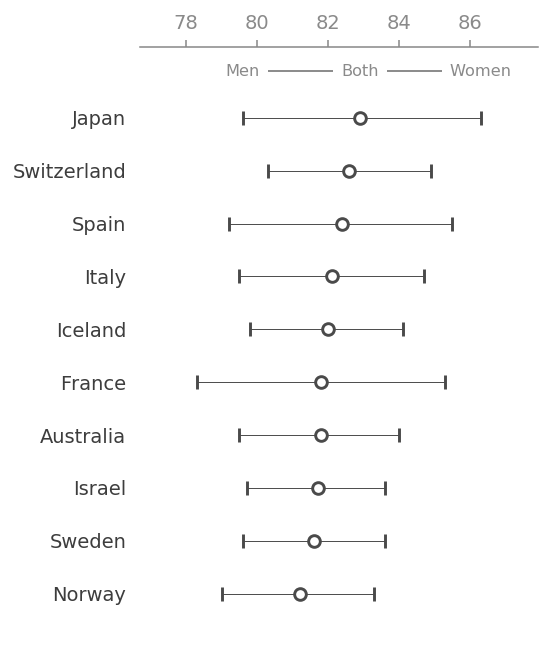
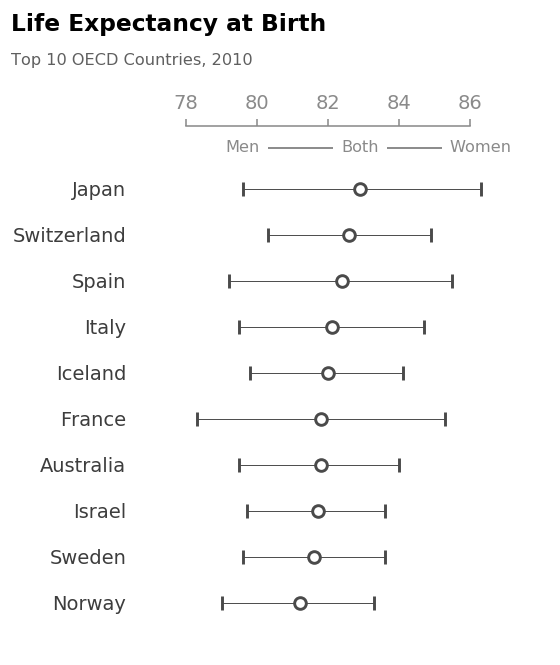
Updated OECD plots
-Added a function to plot life expectancy over time
-Refined appearance of dot plot

diff --git a/OECD_LifeExpectancy/OECD_LifeExpectancy.py b/OECD_LifeExpectancy/OECD_LifeExpectancy.py
@@ -1,32 +1,40 @@
 import os
 import re
+import math
 import pandas as pd
 import matplotlib.pyplot as plt
 import matplotlib.lines
 import requests
 from bs4 import BeautifulSoup
+from matplotlib.ticker import MaxNLocator
+
+
 
 def mkdir_p(mypath):
     '''Creates a directory. equivalent to using mkdir -p on the command line
-    
+
     code from:
     https://stackoverflow.com/questions/11373610/save-matplotlib-file-to-a-directory
     '''
 
     from errno import EEXIST
-    from os import makedirs,path
+    from os import makedirs, path
 
     try:
         makedirs(mypath)
-    except OSError as exc: # Python >2.5
+    except OSError as exc:  # Python >2.5
         if exc.errno == EEXIST and path.isdir(mypath):
             pass
-        else: raise
+        else:
+            raise
+
 
 def load_life_expectancy_data():
-    f_path_name = os.path.join(os.getcwd(), 'OECD_LifeExpectancy', 'OECD_LifeExpectancy_data.csv')
+    f_path_name = os.path.join(
+        os.getcwd(), 'OECD_LifeExpectancy', 'OECD_LifeExpectancy_data.csv')
 
     return pd.read_csv(f_path_name)
+
 
 def get_country_codes(reload_data=False):
     '''
@@ -78,15 +86,26 @@ def get_country_codes(reload_data=False):
     cc = cc.rename(columns={'name': 'Country', 'iso': 'Code'})
     cc['Code'] = cc['Code'].str.replace(r'.*/.?(\w{3})', '\\1', regex=True)
 
-    # There are two OECD countries for which the countries names in 
+    # There are two OECD countries for which the countries names in
     # the country code list does not match the OECD members list.
     # KOR -> South Korea -> Korea
     # SVK -> Slovakia -> Slovak Republic
     # There may be non-oecd countries whose name do not match.
-    match_names = {'Slovakia':'Slovak Republic', 'South Korea':'Korea'}
+    match_names = {'Slovakia': 'Slovak Republic', 'South Korea': 'Korea'}
     cc['Country'] = cc['Country'].replace(match_names)
 
     return cc.set_index('Code')['Country'].to_dict()
+
+
+def find_code_by_country(country):
+    cc = get_country_codes()
+    cc = {cntry: code for code, cntry in cc.items()}
+
+    try:
+        return cc[country]
+    except KeyError:
+        print(f'No country code was found for {country}')
+        return None
 
 
 def get_oecd_members(reload_data=False):
@@ -131,6 +150,7 @@ def get_oecd_members(reload_data=False):
 
     return members
 
+
 def get_top_countries(year, top=10, oecd_only=True):
     df = load_life_expectancy_data()
     country_names = get_country_codes()
@@ -141,77 +161,183 @@ def get_top_countries(year, top=10, oecd_only=True):
         oecd_members = get_oecd_members()
         df = df.loc[df['LOCATION'].isin(oecd_members)]
 
-    top_countries = (df.loc[(df['TIME']==year) & (df['SUBJECT']=='TOT')]
+    top_countries = (df.loc[(df['TIME'] == year) & (df['SUBJECT'] == 'TOT')]
                        .sort_values(by='Value', ascending=False)
                        .head(top))['LOCATION']
 
-    df = (df.loc[(df['LOCATION'].isin(top_countries)) & (df['TIME']==year)]
-            [['LOCATION', 'SUBJECT', 'Value']]
-            .pivot(index='LOCATION', columns='SUBJECT', values='Value')
-            .sort_values(by='TOT'))
+    df = (df.loc[(df['LOCATION'].isin(top_countries)) & (df['TIME'] == year)]
+          [['LOCATION', 'SUBJECT', 'Value']]
+          .pivot(index='LOCATION', columns='SUBJECT', values='Value')
+          .sort_values(by='TOT'))
 
     return df.copy()
+
+def insert_title(ax, title, subtitle):
+    ax.annotate(title, (0.02,0.98),
+                xycoords='figure fraction', fontweight='bold',
+                fontsize='large', va='top', ha='left')
+    ax.annotate(subtitle, (0.02,0.92),
+                 xycoords='figure fraction', fontweight='light',
+                 fontsize='small', va='top', ha='left', color='#5F5F5F')
+
 
 def create_dotplot(year, top=10, oecd_only=True):
     df = get_top_countries(year, top, oecd_only)
 
-    fig, ax = plt.subplots(figsize=(4,4.75), dpi=140)
-    fig.subplots_adjust(bottom=0.0, top=0.93, left=0.25, right=0.96)
+    fig, ax = plt.subplots(figsize=(4, 4.75), dpi=140)
+    fig.subplots_adjust(bottom=0.0, top=0.81, left=0.25, right=0.96)
 
     ax.errorbar(df['TOT'],
                 df.index,
                 xerr=[df['TOT'] - df['MEN'], df['WOMEN'] - df['TOT']],
                 ls='', marker='o', ms=6, mfc='#FFFFFF', mec='#4A4A4A', mew=1.5,
                 elinewidth=0.5, capsize=3.5, capthick=1.5, ecolor='#4A4A4A')
-    
+
     set_dotplot_axis_appearance(ax)
-    anno_locs = df.loc[df['TOT'].idxmax()][['MEN','TOT','WOMEN']].to_list()
-    label_dotplot_points(ax,anno_locs)
+    anno_locs = df.loc[df['TOT'].idxmax()][['MEN', 'TOT', 'WOMEN']].to_list()
+    label_dotplot_points(ax, anno_locs)
+
+    title = 'Life Expectancy at Birth'
+    subtitle = f'Top {top} OECD Countries, {year}'
+    insert_title(ax, title, subtitle)
 
     mkdir_p('Output_Figures')
-    f_path = os.path.join(os.getcwd(),'Output_Figures')
+    f_path = os.path.join(os.getcwd(), 'Output_Figures')
     f_name = f'LifeExpectancy_{year}.png'
-    fig.savefig(os.path.join(f_path, f_name), bbox_inchex = 'auto', pad_inches=0)
+    fig.savefig(os.path.join(f_path, f_name), bbox_inchex='auto', pad_inches=0)
+
 
 def set_dotplot_axis_appearance(ax):
-    SPINE_COLOUR = '#8A8A8A'
-    LABEL_COLOUR = '#3D3D3D'
+    spine_colour = '#8A8A8A'
+    label_colour = '#3D3D3D'
 
     ax.xaxis.set_ticks_position('top')
 
-    for side in ['left','right', 'bottom']:
+    for side in ['left', 'right', 'bottom']:
         ax.spines[side].set_visible(False)
     ax.tick_params(left=False, right=False, bottom=False)
 
-    ax.spines['top'].set_color(SPINE_COLOUR)
-    ax.tick_params(axis='y', colors=LABEL_COLOUR)
-    ax.tick_params(axis='x', colors=SPINE_COLOUR)
+    ax.spines['top'].set_color(spine_colour)
+    ax.tick_params(axis='y', colors=label_colour)
+    ax.tick_params(axis='x', colors=spine_colour)
     ax.tick_params(axis='x', direction='out', top=True)
 
-    ax.xaxis.label.set_color(LABEL_COLOUR)
+    ax.xaxis.label.set_color(label_colour)
     ax.xaxis.set_label_position('top')
     ax.margins(x=0.2, y=0.15)
 
+    xticks = ax.get_xticks()
+    ax.spines['top'].set_bounds(xticks[1], xticks[-2])
+
+
 def label_dotplot_points(ax, anno_loc):
-    SPINE_COLOUR = '#8A8A8A'
+    spine_colour = '#8A8A8A'
     anno_text = ['Men', 'Both', 'Women']
 
     ln = matplotlib.lines.Line2D([anno_loc[0], anno_loc[-1]], [0.96, 0.96],
-                                 color=SPINE_COLOUR, lw=1,
+                                 color=spine_colour, lw=1,
                                  transform=ax.get_xaxis_transform())
     ax.add_line(ln)
 
     for txt, xcoord in zip(anno_text, anno_loc):
         ax.annotate(txt, (xcoord, 0.96),
-                    xycoords=('data','axes fraction'),
-                    va='center', ha='center', color=SPINE_COLOUR,
+                    xycoords=('data', 'axes fraction'),
+                    va='center', ha='center', color=spine_colour,
                     fontsize='small',
                     bbox=dict(boxstyle='square,pad=0.5', fc='#FFFFFF', ec='none'))
+
+
+def get_country_expectancy_data(country, years):
+    '''
+    Extract the life expectancy data for a specified country for the years
+    provided.
+    '''
+    df = load_life_expectancy_data()
+    country_code = find_code_by_country(country)
+
+    df = (df.loc[(df['LOCATION'] == country_code) & (df['TIME'].isin(years))]
+          [['TIME', 'SUBJECT', 'Value']]
+          .pivot(index='TIME', columns='SUBJECT', values='Value')
+          .sort_index(ascending=True))
+
+    return df.copy()
+
+
+def plot_country_life_expectancy(country, years):
+    exp = get_country_expectancy_data(country, years)
+
+    colours = {'MEN':'#252525', 'WOMEN':'#5F5F5F'}
+
+    fig, ax = plt.subplots(figsize=(6, 4.5), dpi=140)
+    fig.subplots_adjust(bottom=0.1, top=0.87, left=0.05, right=0.9)
+
+    subjects = ['MEN', 'WOMEN']
+    for subject in subjects:
+        ax.plot(exp.index, exp[subject], label=subject,
+                color=colours[subject], marker='o',
+                mfc='#FFFFFF', mec=colours[subject])
     
+    annotate_points(ax, colours)
+    set_country_life_expectancy_appearance(ax)
+
+    title = 'Life Expectancy at Birth'
+    start, end = exp.index[0], exp.index[-1]
+    subtitle = f'By year from {start} to {end}, {country.capitalize()}'
+    insert_title(ax, title, subtitle)
+
+    
+    mkdir_p('Output_Figures')
+    f_path = os.path.join(os.getcwd(), 'Output_Figures')
+    f_name = f'LifeExpectancy_{country}_({start}_{end}).png'
+    fig.savefig(os.path.join(f_path, f_name), bbox_inchex='auto', pad_inches=0)
+
+def annotate_points(ax, colours):
+    for line in ax.get_lines():
+        xs, ys = line.get_data()
+        label = line.get_label()
+
+        for x,y in zip(xs, ys):
+            ax.annotate(f'{y:0.1f}', (x,y),
+                        xytext=(0, 10), textcoords='offset points',
+                        color=colours[label],
+                        va='bottom', ha='center', fontsize='small')
+
+        ax.annotate(label.capitalize(), (xs[-1], ys[-1]),
+                    xytext=(15, 0), textcoords='offset points',
+                    color=colours[label],
+                    va='center', ha='left', fontsize='medium')
+
+def set_country_life_expectancy_appearance(ax):
+    spine_colour = '#8A8A8A'
+
+    for side in ['right', 'top']:
+        ax.spines[side].set_visible(False)
+    ax.tick_params(right=False, top=False)
+
+    for side in ['left', 'bottom']:
+        ax.spines[side].set_color(spine_colour)
+    ax.tick_params(axis='y', colors=spine_colour)
+    ax.tick_params(axis='x', colors=spine_colour)
+    # ax.tick_params(axis='x', direction='out', top=True)
+
+    ax.xaxis.label.set_color(spine_colour)
+    ax.yaxis.label.set_color(spine_colour)
+
+    xs, ys = [], []
+    for line in ax.get_lines():
+        line_data = line.get_data()
+        xs.append(line_data[0])
+        ys.append(line_data[1])
+    xs = [val for vals in xs for val in vals]
+    ys = [val for vals in ys for val in vals]
+    
+    ax.yaxis.set_major_locator(MaxNLocator(integer=True))
+    xticks, yticks = ax.get_xticks(), ax.get_yticks()
+    ax.spines['bottom'].set_bounds(xticks[1], xticks[-2])
+    ax.spines['left'].set_bounds(yticks[1], yticks[-2])
+
 
 if __name__ == '__main__':
     create_dotplot(2010)
-
-# TODO: fine tune the appearance of the results
-# TODO: create an "ouputs" folder in the project folder and add to .gitignore
-#       all visualizations should end up in this folder.
+    plot_country_life_expectancy('Canada', list(range(1960, 2018,5)))
+    plot_country_life_expectancy('France', list(range(1960, 2018,5)))

diff --git a/README.md b/README.md
@@ -6,7 +6,15 @@ This visualization attempts to recreate the dot plot of the top ten countries by
 
 Recreating the figure was not too difficult. Launching the `create_dotplot` function with the year of interest passed as an argument create the figure. The `get_country_codes` and `get_oecd_members` are used to scrape some of the necessary data from the above listed websites.
 
-Creating a dotplot in matplotlib is not overly difficult: the `matplotlib.pyplot.axes.plot` function is used with the life expectancy data passed as the x-variable and the country labels as the y-variable. Removing unecessary axes and toning down their presence is done with the `set_dotplot_axis_appearance` function. Finally, point labelling is handled by `label_dotplot_points`, which uses the `axes.annotate` and `axes.add_line` functions. Having a basic understanding of how transforms work in matplotlib was necessary to place these labels.
+Creating a dotplot in matplotlib is not overly difficult: the `matplotlib.pyplot.axes.errorbar` function is used with the combined (`TOT`) life expectancy data passed as the x-variable, the country labels as the y-variable, and the difference between `MEN` and `TOT` and `WOMEN` and `TOT` for the negative and positive error values. Removing unecessary axes and toning down their presence is done with the `set_dotplot_axis_appearance` function. Finally, point labelling is handled by `label_dotplot_points`, which uses the `axes.annotate` and `axes.add_line` functions. Having a basic understanding of how transforms work in matplotlib was necessary to place these labels.
 
-![Life Expectancy at Birth---Top 10 OECD Countries (2010)](Output_Figures/LifeExpectancy_2010.png)
+![Life Expectancy at Birth---Top 10 OECD Countries (2010)](Output_Figures/LifeExpectancy_2010.png){:height="25%" width="25%"}
+
+Interestingly, when comparing this figure to the original, the order of the countries has changed. E.g., Spain is up from position six to three, and Canada is no longer on the list. Furthermore, the [Statistics Canada post](https://www150.statcan.gc.ca/n1/pub/82-624-x/2011001/article/11427-eng.htm) does say that Canada has been in the top 10 for 50 years, so I may have to review my code. I know I will need to scrape the year of accession to OECD membership from a top 10 OECD to be accurate.
+
+I though it would be interesting to see the life expectancy over time so I created `plot_country_life_expectancy` that sets things into motion. Using Canada and France as examples, we can see that this plots well, although there is still some fine tuning required on the x-axis.
+
+![Life expectancy over time (Canada)](Output_Figures/LifeExpectancy_Canada(1980_2015).png){:height="25%" width="25%"}
+
+![Life expectancy over time (France)](Output_Figures/LifeExpectancy_France(1960_2015).png){:height="25%" width="25%"}
 
